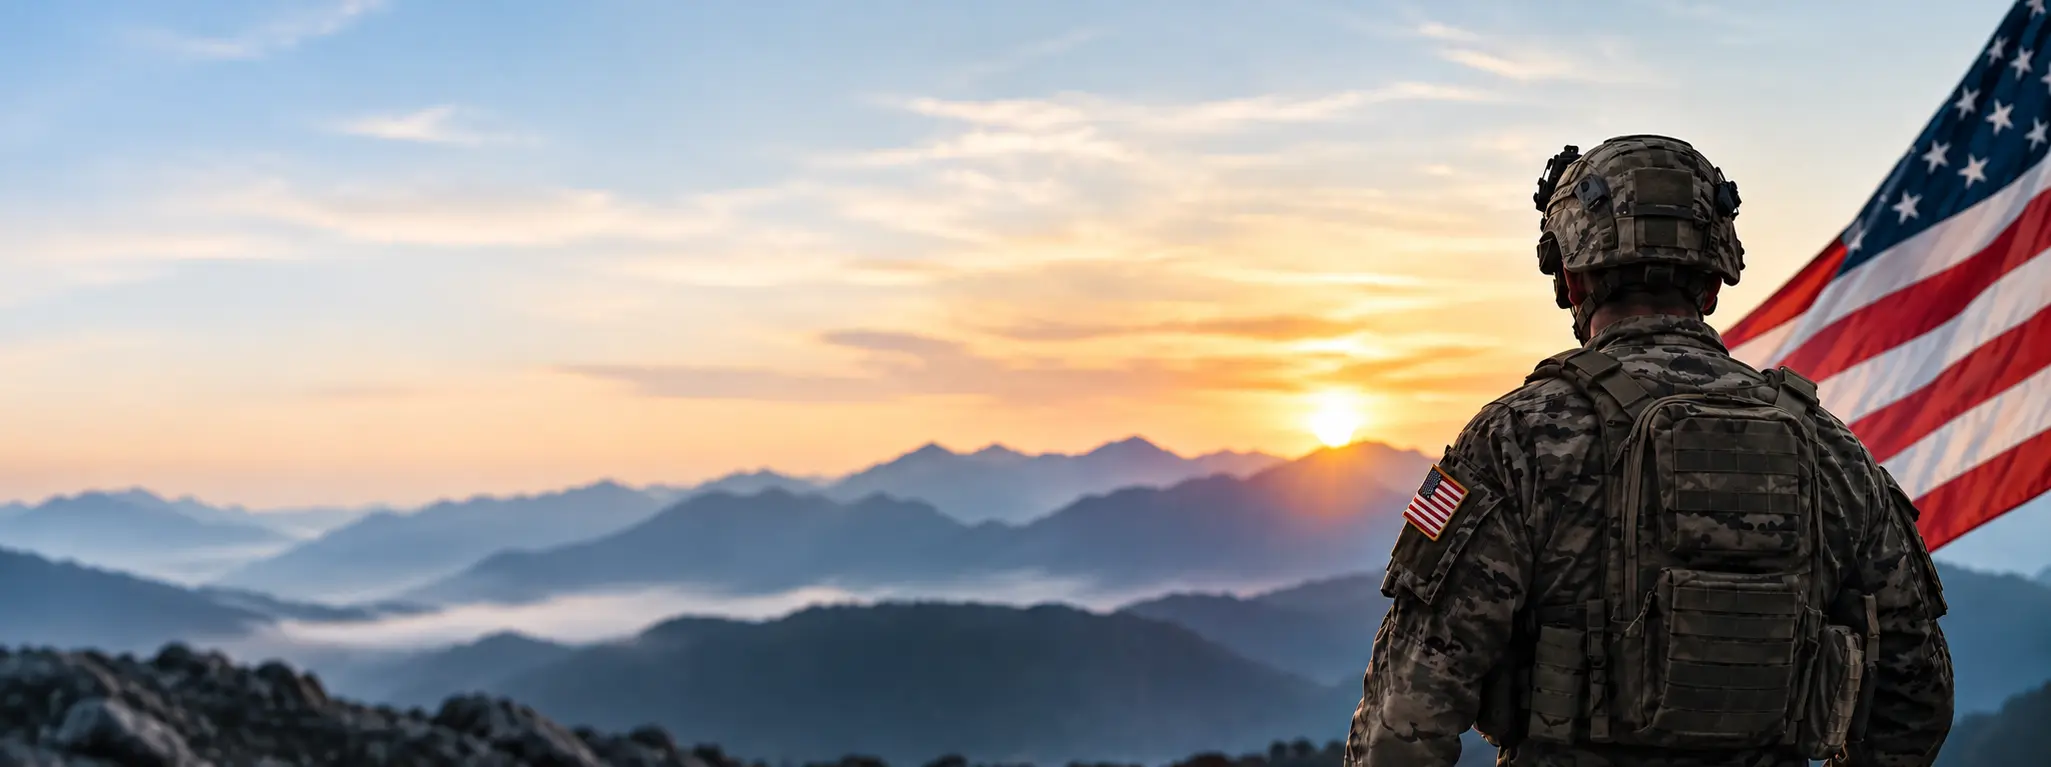
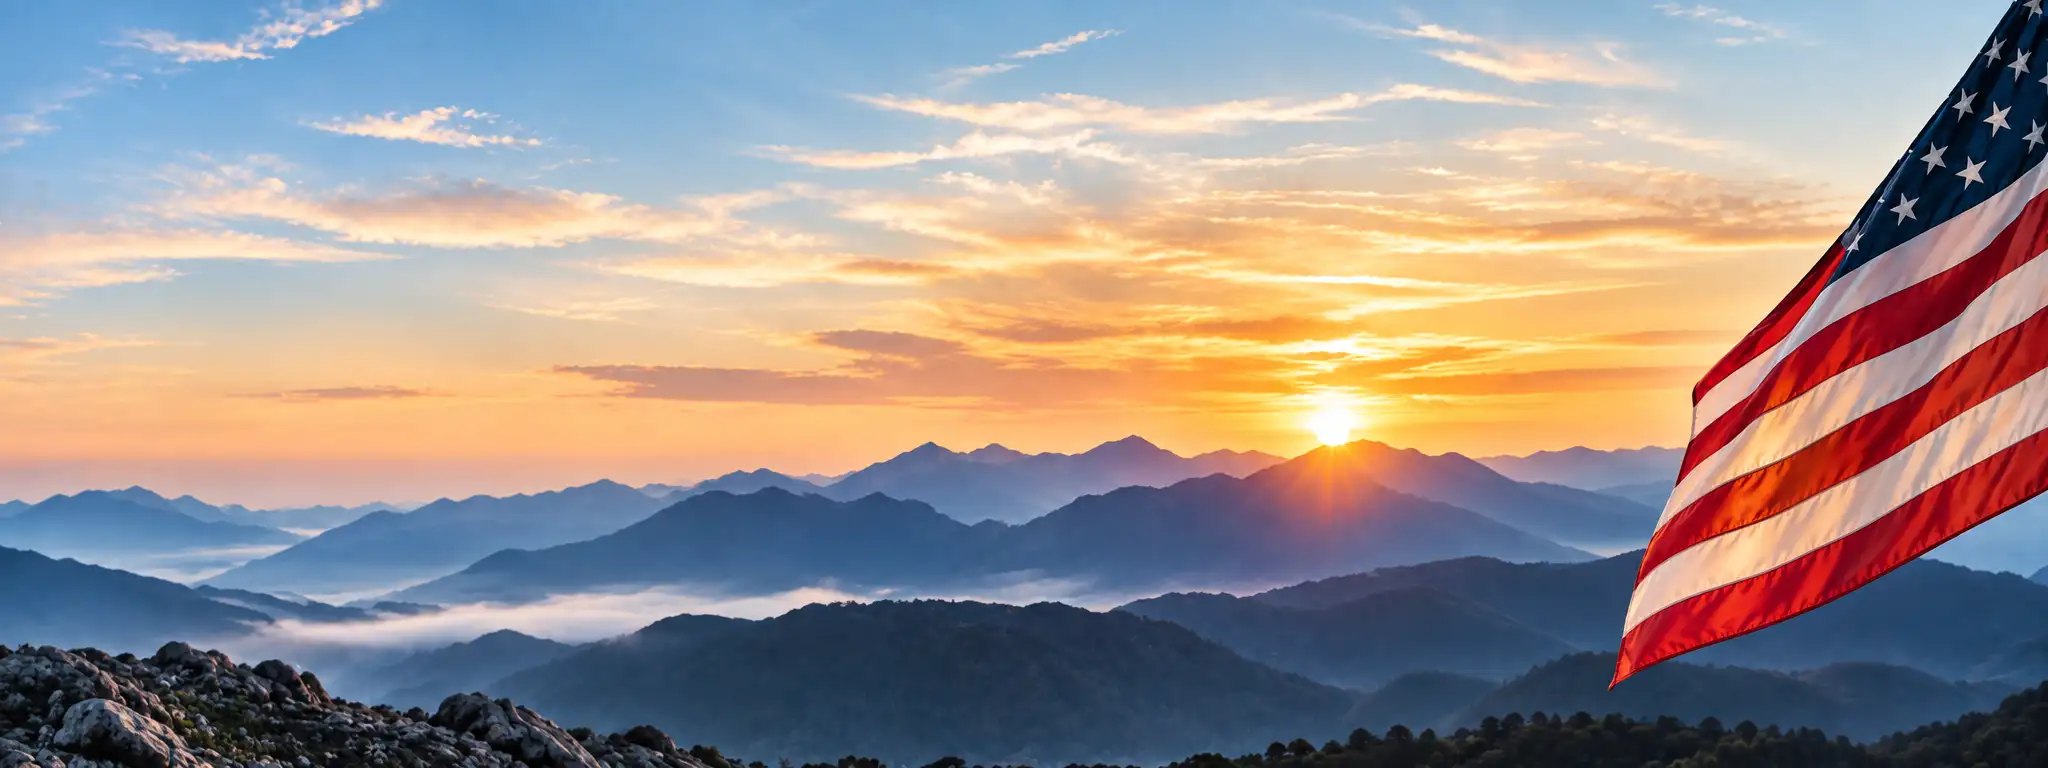
Make featured product card fully clickable, widen product tab content, update military discount image
- Homepage hero: the whole featured GLP-3RTA card is now one link to
  its product page, not just the small "View Product" button
- Product detail tabs: removed the max-w-3xl cap that left a large
  empty gap on the right of the tab content on wide viewports
- Updated military-discount-image.webp with the new background image

diff --git a/components/HomeClient.tsx b/components/HomeClient.tsx
@@ -132,8 +132,11 @@ export default function HomeClient({ products, categories, posts }: HomeClientPr
             </div>
 
             {/* Featured Product Card */}
-            <div className="gsap-hero hidden lg:flex w-full md:w-[380px]">
-              <div className="p-3 bg-[#111111]/80 border border-white/10 rounded-2xl backdrop-blur-md shadow-2xl flex flex-row items-stretch gap-4 group w-full">
+            <Link
+              href="/product/glp-3rta"
+              className="gsap-hero hidden lg:flex w-full md:w-[380px]"
+            >
+              <div className="p-3 bg-[#111111]/80 border border-white/10 rounded-2xl backdrop-blur-md shadow-2xl flex flex-row items-stretch gap-4 group w-full hover:border-white/20 transition-colors">
                 {/* Left side: Image */}
                 <div className="w-2/5 aspect-square rounded-xl overflow-hidden relative shrink-0">
                   <img
@@ -160,16 +163,13 @@ export default function HomeClient({ products, categories, posts }: HomeClientPr
                       Research Grade Peptide
                     </p>
                   </div>
-                  <Link
-                    href="/product/glp-3rta"
-                    className="flex items-center justify-between w-full px-4 py-2 mt-3 text-xs text-black bg-white hover:bg-gray-200 transition-colors rounded-lg font-medium"
-                  >
+                  <div className="flex items-center justify-between w-full px-4 py-2 mt-3 text-xs text-black bg-white group-hover:bg-gray-200 transition-colors rounded-lg font-medium">
                     <span>View Product</span>
                     <ArrowRight className="w-3 h-3 group-hover:translate-x-1 transition-transform" />
-                  </Link>
+                  </div>
                 </div>
               </div>
-            </div>
+            </Link>
           </div>
         </div>
       </section>

diff --git a/components/product/ProductClient.tsx b/components/product/ProductClient.tsx
@@ -411,7 +411,7 @@ export default function ProductClient({
             </div>
             <div className="h-[3px] bg-gray-900 -mt-[2px] relative z-0 rounded-full" />
           </div>
-          <div ref={tabContentRef} className="max-w-3xl">
+          <div ref={tabContentRef} className="max-w-none">
             {/* All four tabs render into the DOM at all times (visibility toggled via CSS,
                 not conditional unmounting) — this keeps the research/quality/compliance
                 content readable by search crawlers and AI answer engines, which don't
